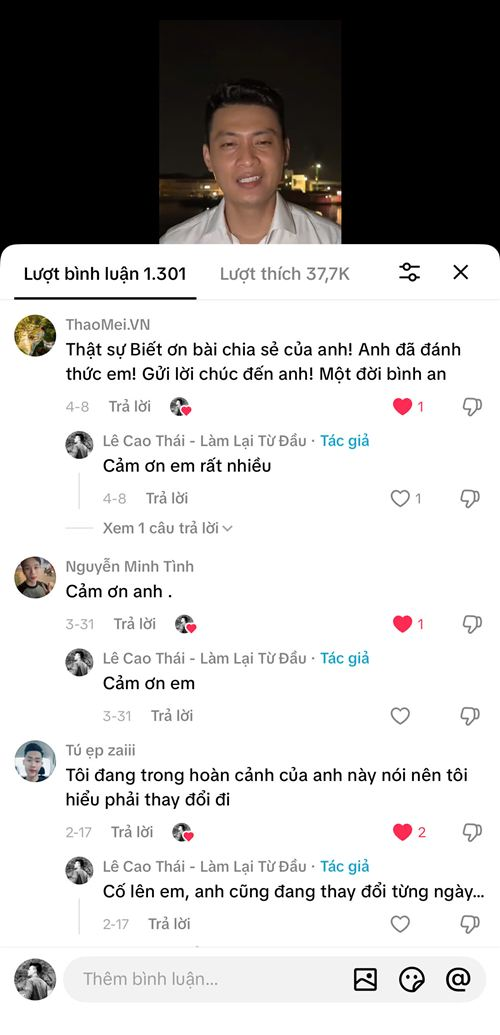
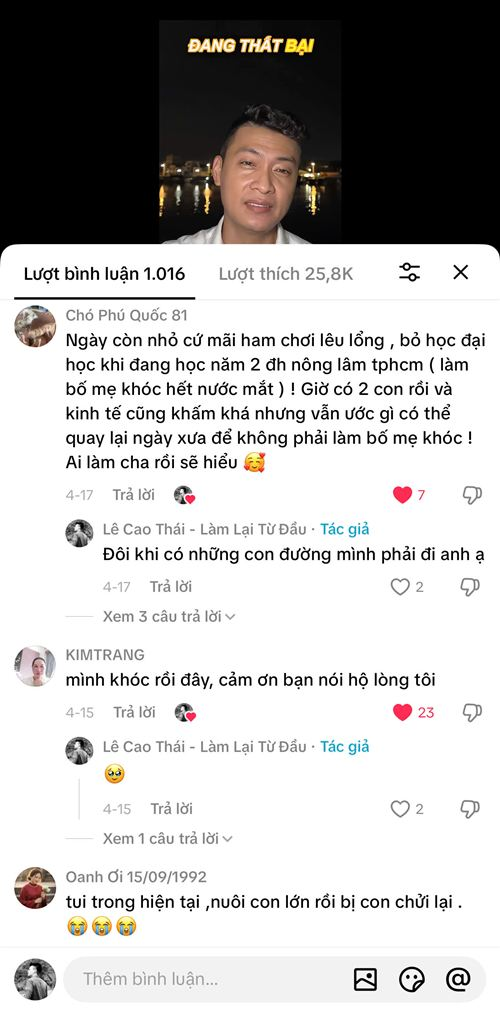
Add files via upload

diff --git a/index.html b/index.html
@@ -236,7 +236,11 @@
       <p style="color:var(--text-2);line-height:1.85;margin-bottom:0.85rem;">Lần đầu sau rất lâu, mình lại có <strong style="color:var(--rust);">ƯỚC MƠ</strong>, có <strong style="color:var(--rust);">MỤC TIÊU</strong>, và có một <strong style="color:var(--rust);">KẾ HOẠCH ĐỂ HÀNH ĐỘNG</strong>.</p>
       <p style="color:var(--text-2);line-height:1.85;margin-bottom:0.85rem;">Mình xây kênh TikTok, giờ đã hơn <strong style="color:var(--rust);">26.000 người theo dõi</strong>, nhiều video triệu view, hàng nghìn bình luận động viên.</p>
       <p style="color:var(--text-2);line-height:1.85;">Công việc thuận lợi hơn. Và quan trọng nhất, không khí trong nhà ấm trở lại. <strong style="color:var(--brown);">Gia đình mình hạnh phúc hơn.</strong></p>
-      <!-- CHÈN ẢNH: gym, đọc sách, ảnh gia đình -->
+      <div style="display:grid;grid-template-columns:repeat(3,1fr);gap:0.6rem;margin-top:1.25rem;">
+        <figure style="margin:0;"><img src="photo-after.jpg" alt="Tap gym moi ngay" loading="lazy" style="width:100%;aspect-ratio:3/4;object-fit:cover;border-radius:10px;border:1px solid var(--cream-3);box-shadow:0 6px 18px rgba(0,0,0,.10);display:block;"><figcaption style="text-align:center;color:var(--text-3);font-size:0.74rem;margin-top:0.4rem;">Tập gym đều</figcaption></figure>
+        <figure style="margin:0;"><img src="photo-after1.jpg" alt="Doc sach moi ngay" loading="lazy" style="width:100%;aspect-ratio:3/4;object-fit:cover;border-radius:10px;border:1px solid var(--cream-3);box-shadow:0 6px 18px rgba(0,0,0,.10);display:block;"><figcaption style="text-align:center;color:var(--text-3);font-size:0.74rem;margin-top:0.4rem;">Đọc sách mỗi ngày</figcaption></figure>
+        <figure style="margin:0;"><img src="proof-family.jpg" alt="Gia dinh hanh phuc" loading="lazy" style="width:100%;aspect-ratio:3/4;object-fit:cover;border-radius:10px;border:1px solid var(--cream-3);box-shadow:0 6px 18px rgba(0,0,0,.10);display:block;"><figcaption style="text-align:center;color:var(--text-3);font-size:0.74rem;margin-top:0.4rem;">Gia đình hạnh phúc</figcaption></figure>
+      </div>
     </div>
 
     <div class="card reveal" style="padding:1.75rem;margin-bottom:1.5rem;">
